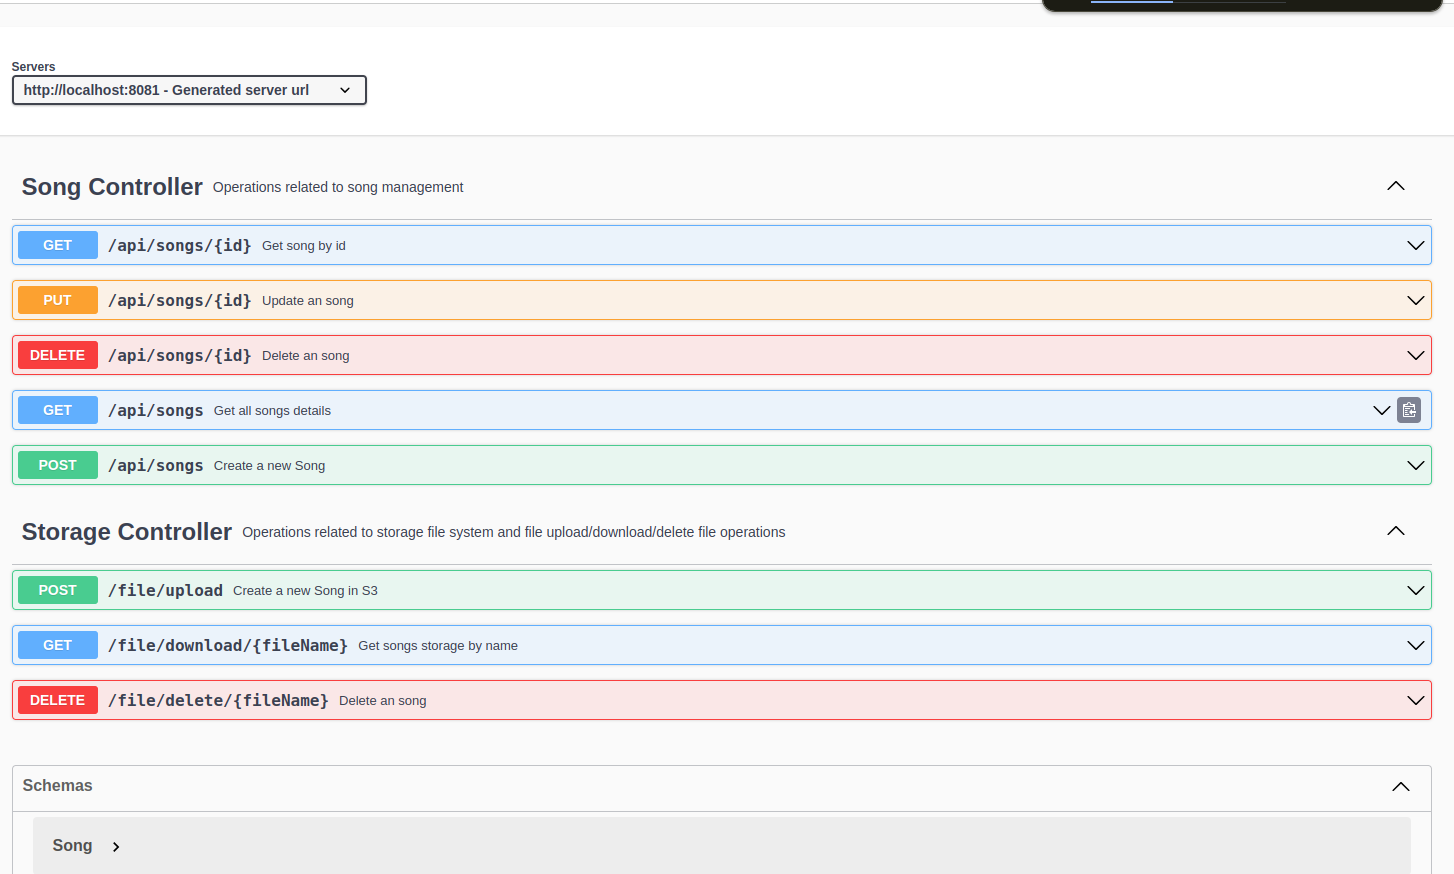
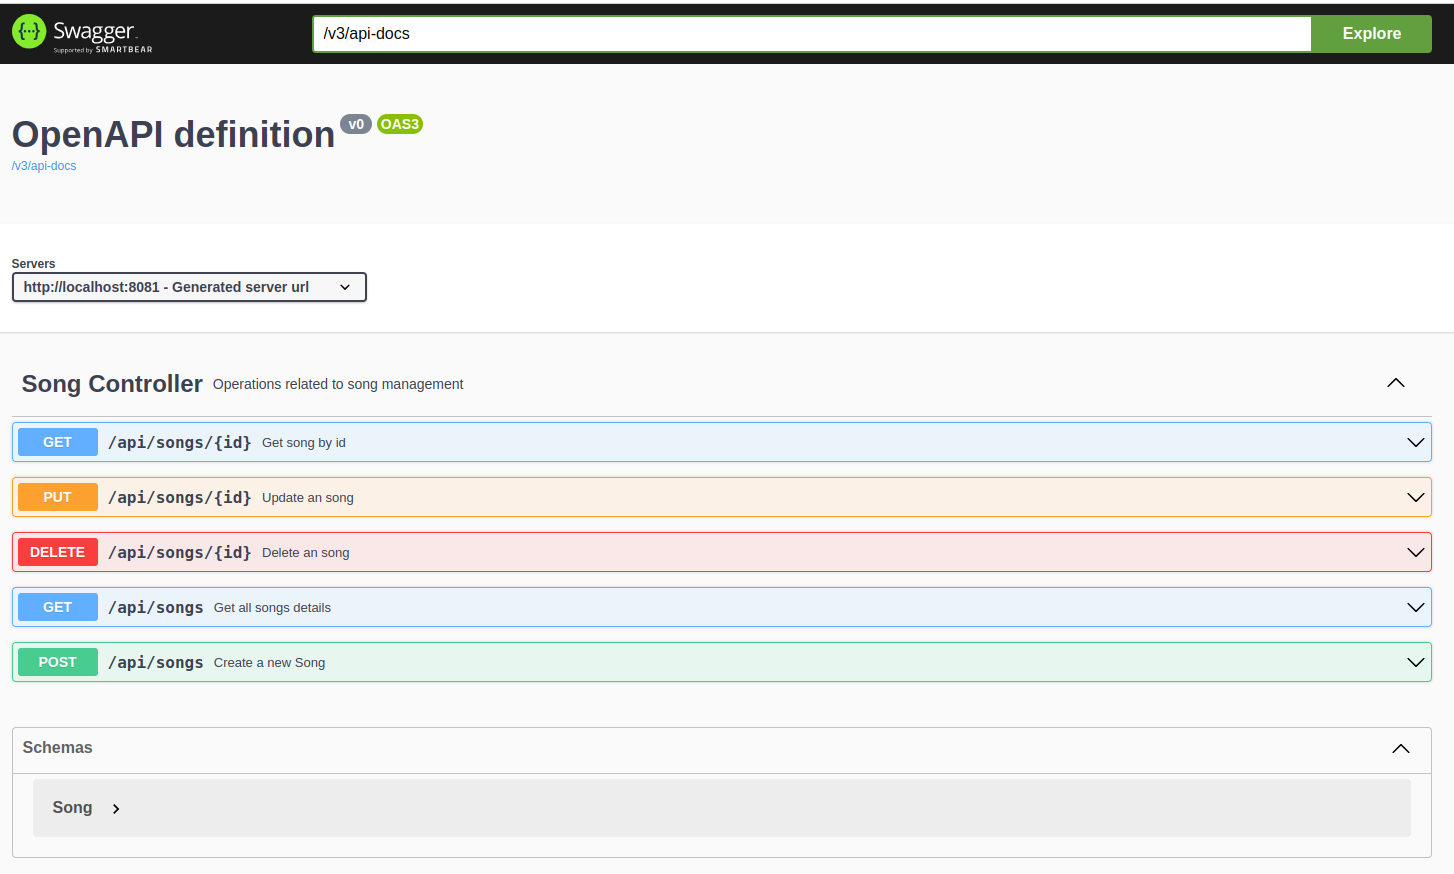
adjust readme

Changed region(s): [[0.0, 0.0, 1.0, 0.9886]]

diff --git a/src/main/java/com/greencode/musicarchivebackend/controller/StorageController.java b/src/main/java/com/greencode/musicarchivebackend/controller/StorageController.java
@@ -2,6 +2,7 @@ package com.greencode.musicarchivebackend.controller;
 
 import com.greencode.musicarchivebackend.model.Song;
 import com.greencode.musicarchivebackend.service.StorageService;
+import io.swagger.v3.oas.annotations.Hidden;
 import io.swagger.v3.oas.annotations.Operation;
 import io.swagger.v3.oas.annotations.responses.ApiResponse;
 import io.swagger.v3.oas.annotations.responses.ApiResponses;
@@ -18,6 +19,7 @@ import org.springframework.web.multipart.MultipartFile;
 @RequestMapping("/file")
 @CrossOrigin(origins = "*")
 @Tag(name = "Storage Controller", description = "Operations related to storage file system and file upload/download/delete file operations")
+@Hidden
 public class StorageController {
     @Autowired
     private StorageService service;

diff --git a/README.md b/README.md
@@ -1,9 +1,70 @@
+# Music Archive
+
+> A simple API where you can upload music, storing it on Amazon S3 and saving information in MongoDB.
+
 ## Imagens do projeto
-### 01
-![](/src/images/img.png)
+<div align="center">
+  <img src="/src/images/img.png" width="30%">
+  <img src="/src/images/img_1.png" width="30%">
+  <img src="/src/images/img_2.png" width="30%">
+</div>
 
-### 02
-![](/src/images/img_1.png)
+```bash
+- Start project
+- http://localhost:8081/home
+```
 
-### Swagger
-![](src/images/img_2.png)
+[//]: # (> **Note**: The script will build the project before running it, and it'll start the containers for the database using `docker compose up -d`.Note**: The script will build the project before running it, and it'll start the containers for the database using `docker compose up -d`.)
+
+### Environment
+
+The API uses some environment variables to set up the database connection, Amazon S3 configuration and the port to run the server. The default values are:
+
+```ini
+server.port=8081
+spring.data.mongodb.uri=
+
+## Config S3 Bucket
+cloud.aws.credentials.access-key=
+cloud.aws.credentials.secret-key=
+cloud.aws.region.static=
+cloud.aws.stack.auto=false
+
+application.bucket.name=musicarchives
+
+spring.servlet.multipart.enabled=true
+spring.servlet.multipart.file-size-threshold=12MB
+spring.servlet.multipart.max-file-size=25MB
+spring.servlet.multipart.max-request-size=30MB
+```
+
+The API has 5 endpoints:
+
+- `GET /api/songs`: Returns all the sounds in the database
+- `GET /api/songs/:id`: Returns a sound by its id
+- `PUT /api/songs/:id`: Update an song
+- `DELETE /api/songs/:id`: Delete an song
+- `POST /api/songs`: Creates a new song
+
+### Adding a song
+
+To add a song, simply click on the `Enviar` input and choose your audio file. The song will be sent via a `POST` request to `/api/songs/` and returned in JSON format.
+
+```json
+{
+  "id": "661738b173b273245a531536",
+  "fileName": "1712797872212_RockIntro2.mp3",
+  "title": "RockIntro2.mp3",
+  "artist": "AUDIONAUTIX.COM",
+  "duration": "00:14",
+  "urlSong": "https://musicarchives.s3.sa-east-1.amazonaws.com/1712797872212_RockIntro2.mp3",
+  "favorited": false
+}
+```
+
+### Technologies used:
+![Java](https://img.shields.io/badge/java-%23ED8B00.svg?style=for-the-badge&logo=java&logoColor=white) ![Spring Boot](https://img.shields.io/badge/-Spring%20Boot-6DB33F?style=for-the-badge&logo=spring-boot&logoColor=white)
+![AWS](https://img.shields.io/badge/AWS-%23FF9900.svg?style=for-the-badge&logo=amazon-aws&logoColor=white) ![HTML5](https://img.shields.io/badge/html5-%23E34F26.svg?style=for-the-badge&logo=html5&logoColor=white)
+![Thymeleaf](https://img.shields.io/badge/Thymeleaf-%23005C0F.svg?style=for-the-badge&logo=Thymeleaf&logoColor=white) ![JavaScript](https://img.shields.io/badge/-JavaScript-F7DF1E?style=for-the-badge&logo=javascript&logoColor=white)
+![MongoDB](https://img.shields.io/badge/-MongoDB-47A248?style=for-the-badge&logo=mongodb&logoColor=white) <img src="https://img.shields.io/badge/-Swagger-%23Clojure?style=for-the-badge&logo=swagger&logoColor=white">
+
